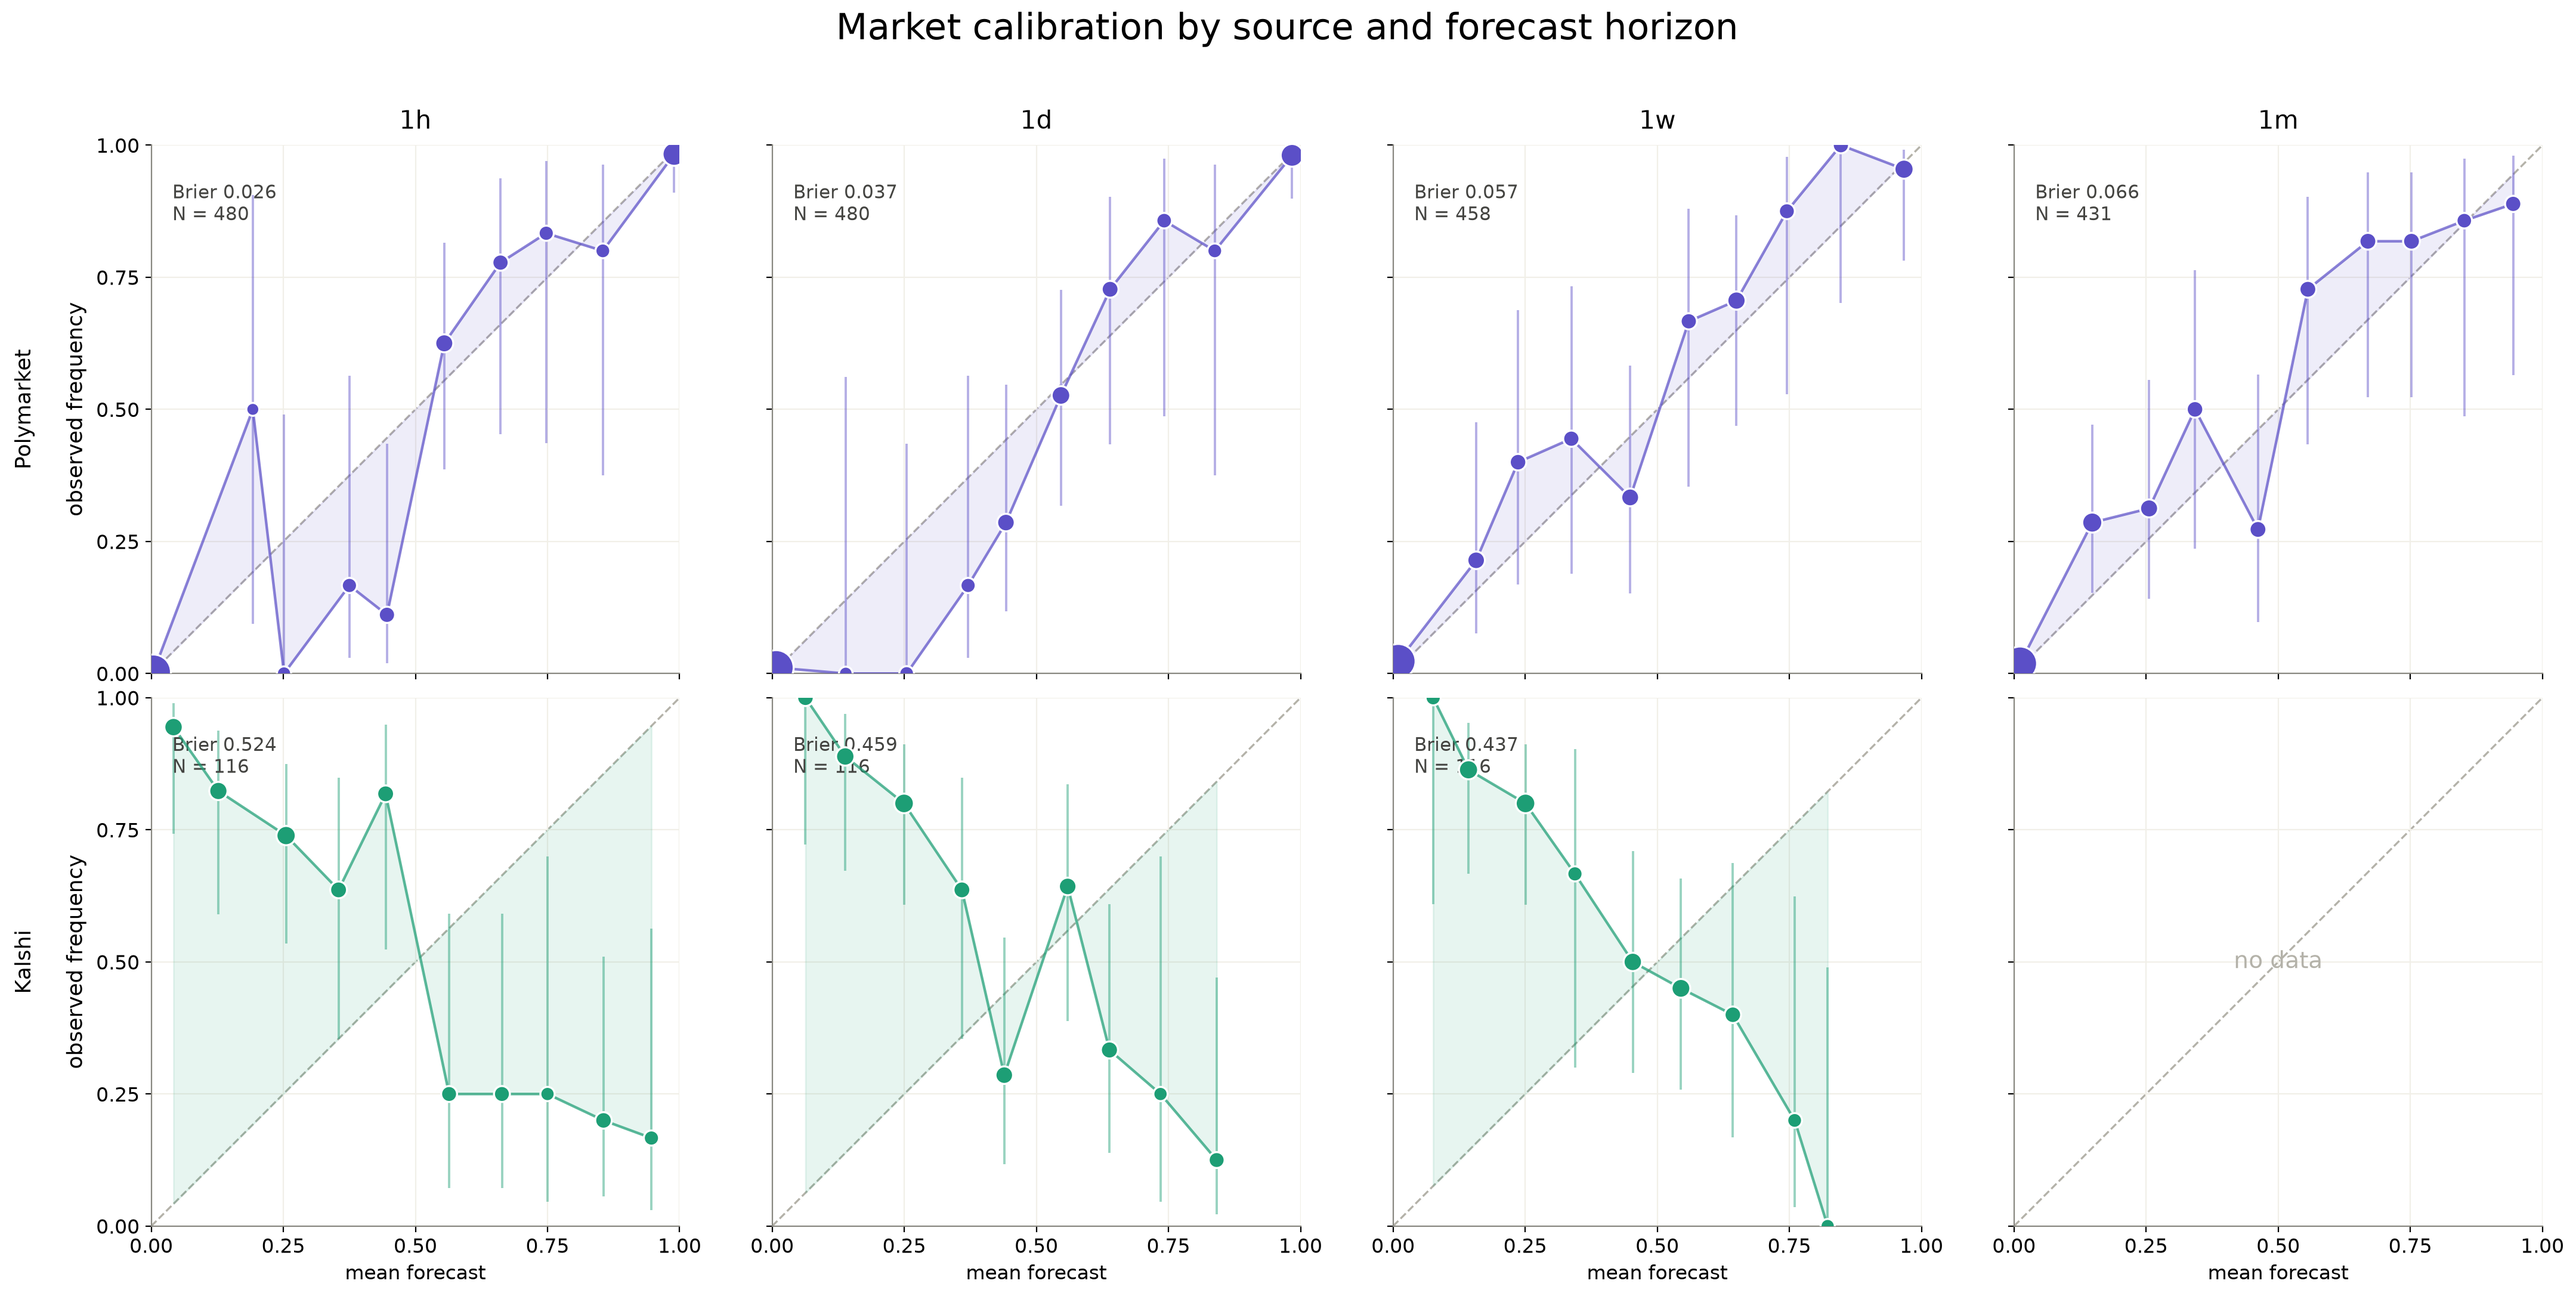
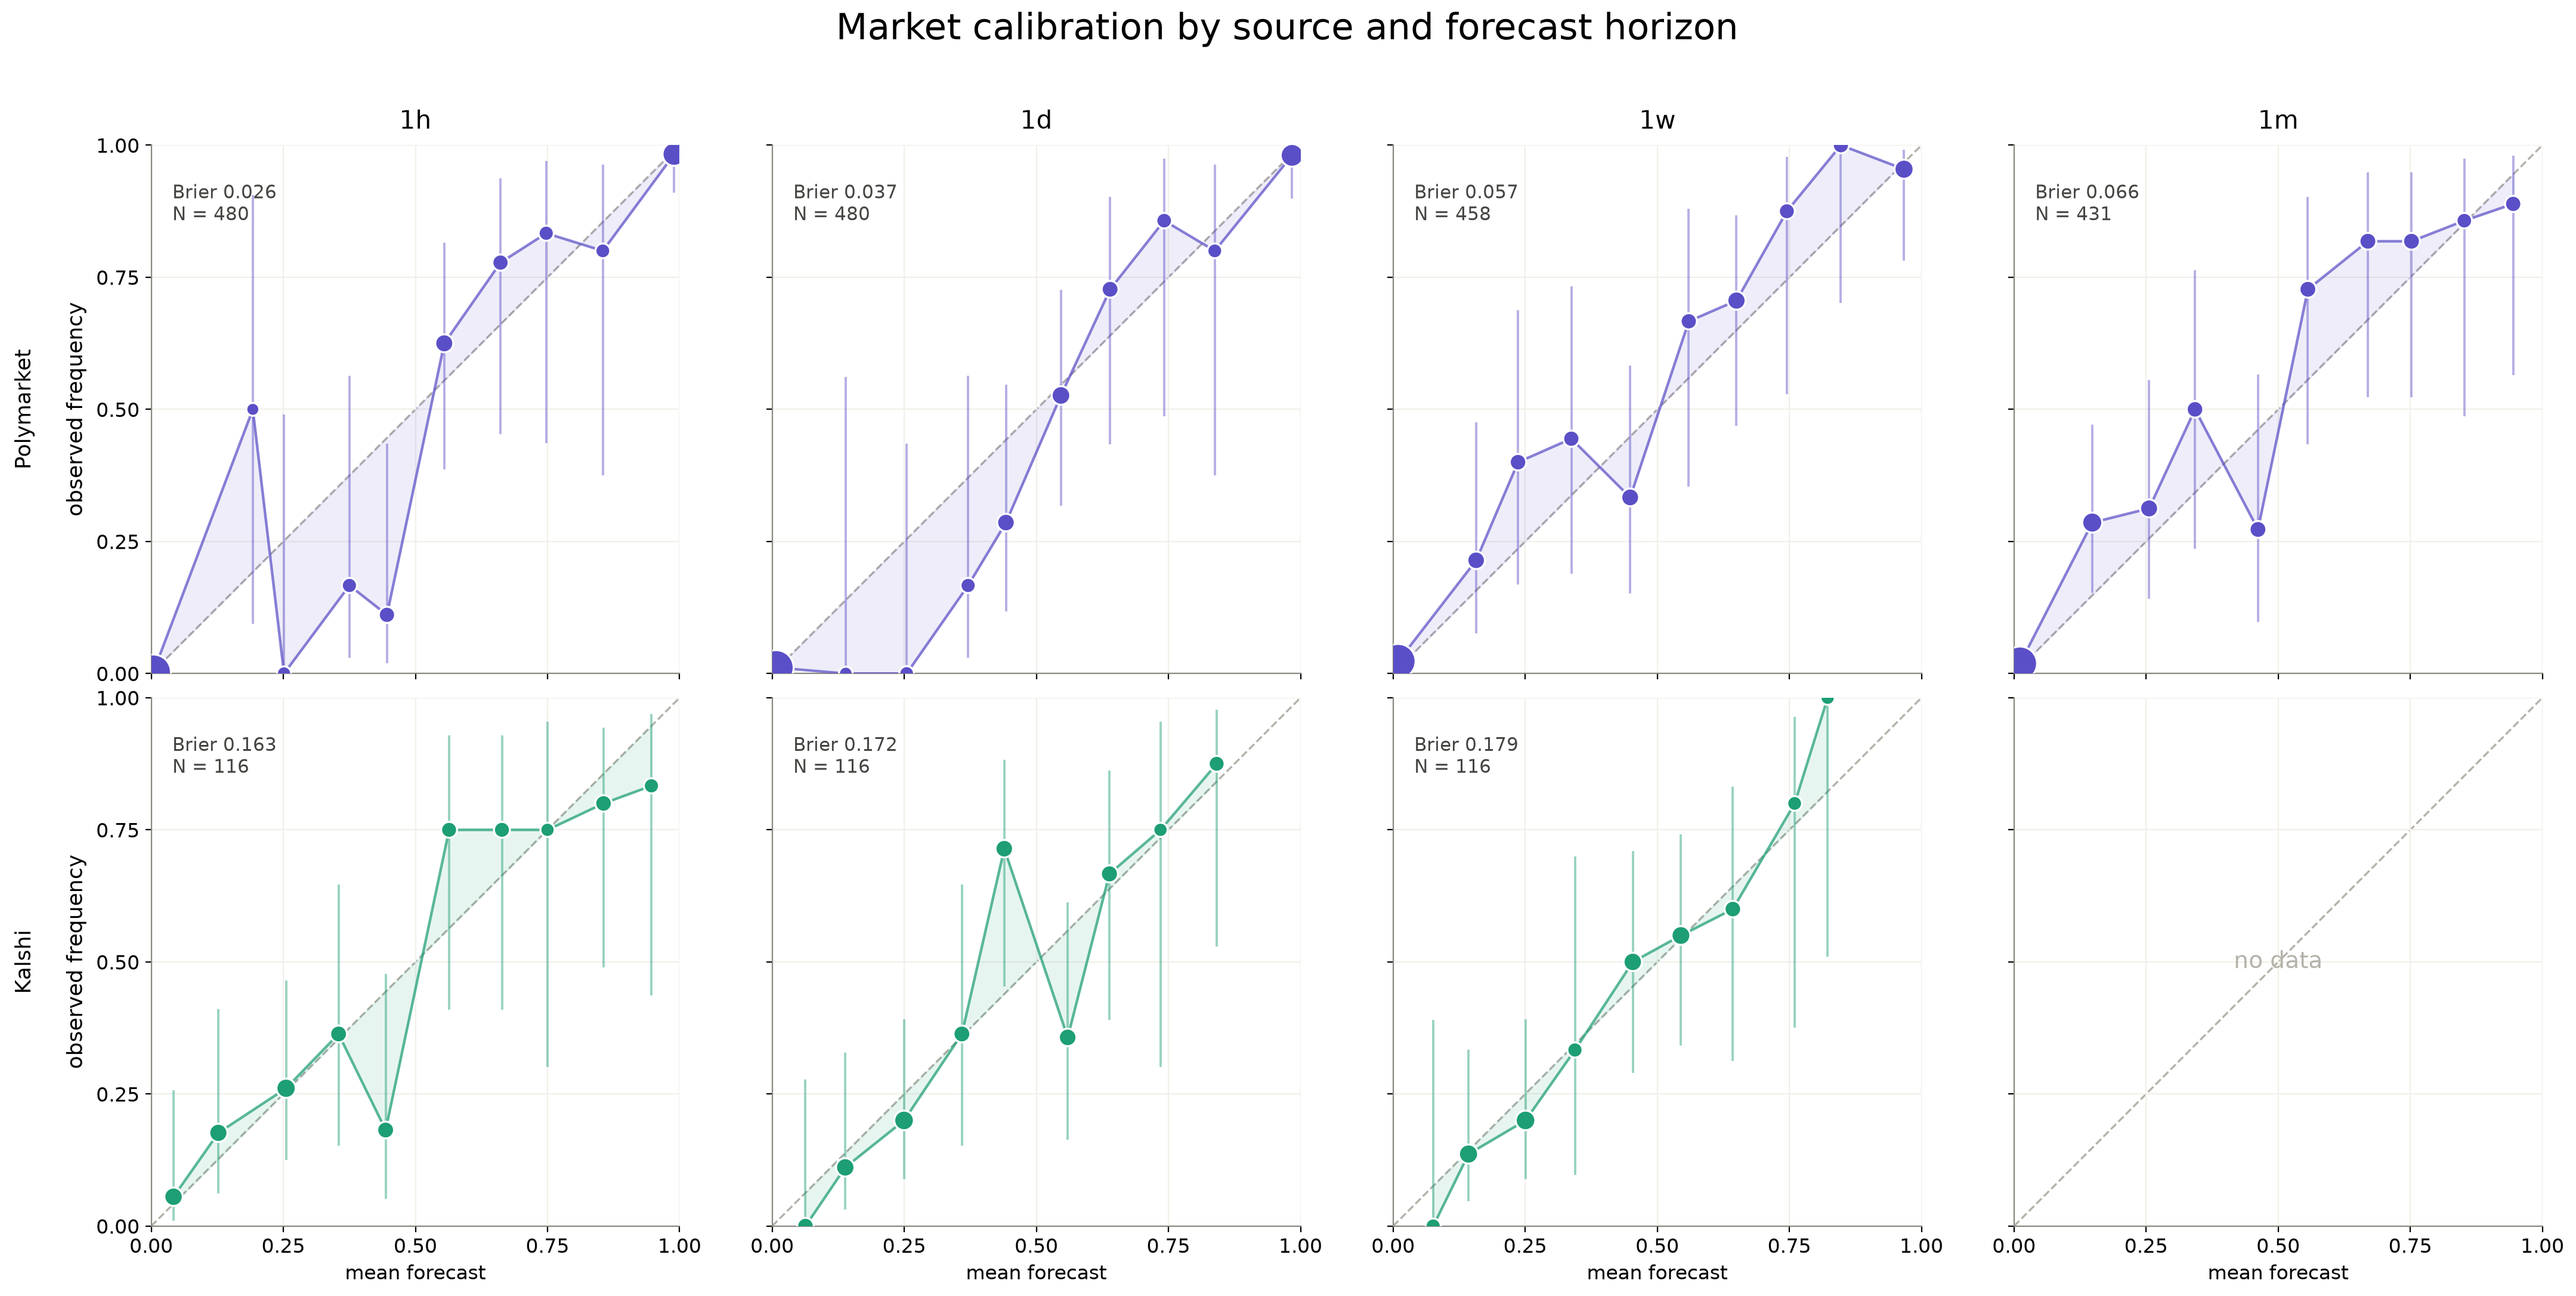
fixed kalshi flipped chart error

diff --git a/src/scripts/cleaning.py b/src/scripts/cleaning.py
@@ -11,7 +11,7 @@ def clean_data():
     df = pd.read_csv(config.RAW_DATA_PATH / "market_data.csv")
     df = df.dropna()
     df = df.drop(df[df['outcome'] == "scalar"].index)
-    df = df.replace({"outcome": {"yes": 0, "no": 1}})
+    df = df.replace({"outcome": {"yes": 1, "no": 0}})
 
     #split dataframe by source platform
     df_polymarket = df[df['source'] == 'polymarket']
